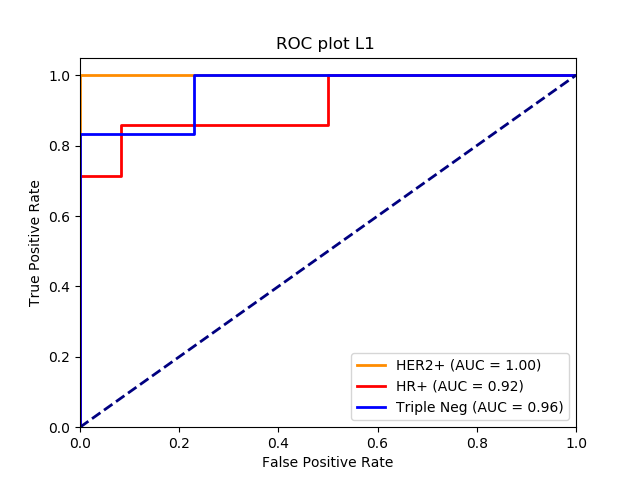
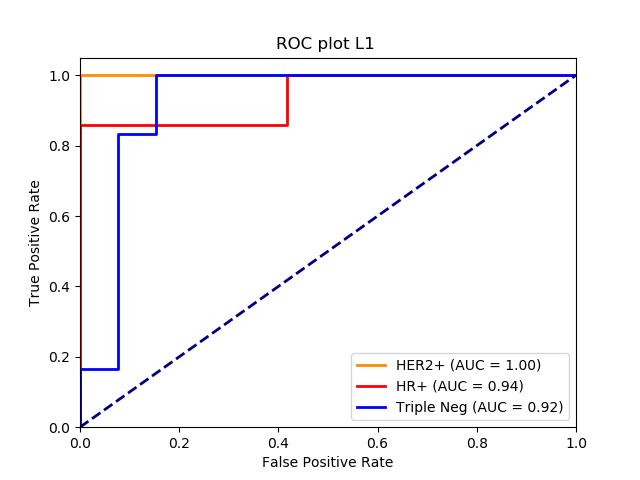
calculate coeff

diff --git a/scripts/Main.py b/scripts/Main.py
@@ -3,6 +3,7 @@
 import argparse
 
 import pandas as pd
+import numpy as np
 from numpy import ravel
 from sklearn.feature_selection import SelectFromModel
 from sklearn.model_selection import GridSearchCV, KFold, StratifiedKFold
@@ -14,7 +15,7 @@ import matplotlib.pyplot as plt
 
 
 class Model:
-    def __init__(self, svm, c_l1, best_features, accuracy_validate, best_params, n_features, iteration):
+    def __init__(self, svm, c_l1, best_features, accuracy_validate, best_params, n_features, iteration, lsvc, index):
         self.svm = svm
         self.c_l1 = c_l1
         self.best_features = best_features
@@ -22,6 +23,25 @@ class Model:
         self.best_params = best_params
         self.n_features = n_features
         self.iteration = iteration
+        self.lsvc = lsvc
+        self.index = index
+
+
+def plot_coefficients(classifier, feature_names, top_features=20):
+    coef = classifier.coef_.ravel()
+    top_positive_coefficients = np.argsort(coef)[-top_features:]
+    top_negative_coefficients = np.argsort(coef)[:top_features]
+    top_coefficients = np.hstack([top_negative_coefficients, top_positive_coefficients])
+    top_coefficients_index = top_coefficients / 3
+    top_coefficients_index = np.int_(np.floor(top_coefficients_index))
+    print(top_coefficients_index[0:5])
+    # create plot
+    plt.figure(figsize=(15, 5))
+    colors = ['red' if c < 0 else 'blue' for c in coef[top_coefficients]]
+    plt.bar(np.arange(2 * top_features), coef[top_coefficients], color=colors)
+    feature_names = np.array(feature_names)
+    plt.xticks(np.arange(1, 1 + 2 * top_features), feature_names[top_coefficients_index], rotation=60, ha='right')
+    plt.show()
 
 
 def l1_selection(x_train, y_train, c_li):
@@ -31,14 +51,14 @@ def l1_selection(x_train, y_train, c_li):
     n_features = x_new.shape[1]
     print("L1: x_train amount of features form " + str(x_train.shape[1]) + " to " + str(x_new.shape[1]))
 
-    return pd.DataFrame(x_new), model, n_features
+    return pd.DataFrame(x_new), model, n_features, lsvc, list(x_train)
 
 
 def inner_cv(x_train, y_train, in_n_splits, state, estimator, param, iteration):
     c_l1_param = [0.01, 0.1, 1, 10]
     models = []
     for c_l1 in c_l1_param:
-        x_train_in, best_features, n_features = l1_selection(x_train, ravel(y_train), c_l1)
+        x_train_in, best_features, n_features, lsvc, index = l1_selection(x_train, ravel(y_train), c_l1)
 
         in_cv = StratifiedKFold(n_splits=in_n_splits, shuffle=False, random_state=state)
         # inner loop for hyperparameters tuning
@@ -49,7 +69,7 @@ def inner_cv(x_train, y_train, in_n_splits, state, estimator, param, iteration):
         best_hyperparameters = gscv.best_params_
         val_score = gscv.best_score_
 
-        model = Model(gscv, c_l1, best_features, val_score, best_hyperparameters, n_features, iteration)
+        model = Model(gscv, c_l1, best_features, val_score, best_hyperparameters, n_features, iteration, lsvc, index)
         models.append(model)
     highest_model = models[0]
     highest_model_score = models[0].accuracy_validate
@@ -67,18 +87,18 @@ def inner_cv(x_train, y_train, in_n_splits, state, estimator, param, iteration):
 
     print(best_parameters, validation_score)
 
-    return best_parameters, c_l1, best_features, validation_score
+    return best_parameters, c_l1, best_features, validation_score, highest_model.lsvc, highest_model.index
 
 
 def outer_cv(x_train, y_train, estimator, param, use_stratified):
-    states = [6,5,4]
+    states = [6, 5, 4]
     out_n_splits = 5
     in_n_splits = 4
     models = []
     plot_number = 1
     iterations = 15
 
-    for iteration in range(3):
+    for iteration in range(int(iterations/out_n_splits)):
         state = states[iteration]
         if use_stratified:
             # StratifiedKFold = Equal amount of each class per fold (uncomment next line to use)
@@ -93,8 +113,9 @@ def outer_cv(x_train, y_train, estimator, param, use_stratified):
             x_train_out, x_test_out = x_train.iloc[index_train_out], x_train.iloc[index_test_out]
             y_train_out, y_test_out = y_train.iloc[index_train_out], y_train.iloc[index_test_out]
 
-            best_parameters, c_l1, best_features, validation_score = inner_cv(x_train_out, y_train_out, in_n_splits, state,
-                                                                              estimator, param, iteration)
+            best_parameters, c_l1, best_features, validation_score, lscv, index = inner_cv(x_train_out, y_train_out,
+                                                                                           in_n_splits, state,
+                                                                                           estimator, param, iteration)
 
             x_train_out_transformed = best_features.transform(x_train_out)
             x_test_out_transformed = best_features.transform(x_test_out)
@@ -107,7 +128,8 @@ def outer_cv(x_train, y_train, estimator, param, use_stratified):
             svc = SVC(C=c, kernel=kernel, degree=degree, gamma=gamma)
             svc.fit(x_train_out_transformed, y_train_out)
             val_score = svc.score(x_test_out_transformed, ravel(y_test_out))
-            model = Model(svc, c_l1, best_features, val_score, best_parameters, x_test_out_transformed.shape[1], iteration)
+            model = Model(svc, c_l1, best_features, val_score, best_parameters, x_test_out_transformed.shape[1],
+                          iteration, lscv, index)
             models.append(model)
 
             classes = ["HER2+", "HR+", "Triple Neg"]
@@ -117,14 +139,14 @@ def outer_cv(x_train, y_train, estimator, param, use_stratified):
             classifier = OneVsRestClassifier(SVC(kernel=model.best_params["kernel"], degree=model.best_params["degree"],
                                                  C=model.best_params["C"], gamma=model.best_params["gamma"],
                                                  probability=True, random_state=6))
-            y_score = classifier.fit(x_train_out_transformed,y_train_out).decision_function(x_test_out_transformed)
+            y_score = classifier.fit(x_train_out_transformed, y_train_out).decision_function(x_test_out_transformed)
 
             fpr = dict()
             tpr = dict()
             roc_auc = dict()
-            for i in range(n_classes):
-                fpr[i], tpr[i], _ = roc_curve(y_test_out[:, i], y_score[:, i])
-                roc_auc[i] = auc(fpr[i], tpr[i])
+            for n_class in range(n_classes):
+                fpr[n_class], tpr[n_class], _ = roc_curve(y_test_out[:, n_class], y_score[:, n_class])
+                roc_auc[n_class] = auc(fpr[n_class], tpr[n_class])
 
             # Compute micro-average ROC curve and ROC area
             fpr["micro"], tpr["micro"], _ = roc_curve(y_test_out.ravel(), y_score.ravel())
@@ -135,9 +157,9 @@ def outer_cv(x_train, y_train, estimator, param, use_stratified):
             plt.plot(fpr[0], tpr[0], color='darkorange',
                      lw=lw, label='%s (AUC = %0.2f)' % (classes[0], roc_auc[0]))
             plt.plot(fpr[1], tpr[1], color='red',
-                     lw=lw, label='%s (AUC = %0.2f)' % (classes[1],roc_auc[1]))
+                     lw=lw, label='%s (AUC = %0.2f)' % (classes[1], roc_auc[1]))
             plt.plot(fpr[2], tpr[2], color='blue',
-                     lw=lw, label='%s (AUC = %0.2f)' % (classes[2],roc_auc[2]))
+                     lw=lw, label='%s (AUC = %0.2f)' % (classes[2], roc_auc[2]))
 
             plt.plot([0, 1], [0, 1], color='navy', lw=lw, linestyle='--')
             plt.xlim([0.0, 1.0])
@@ -147,6 +169,7 @@ def outer_cv(x_train, y_train, estimator, param, use_stratified):
             plt.title('ROC plot L1 ')
             plt.legend(loc="lower right")
             plt.savefig("../images/L1_feature_selection/ROC_plot%s.png" % plot_number)
+            plt.close()
             plot_number += 1
 
     return models
@@ -175,7 +198,9 @@ def nested_svm(data, labels, hyperparameters, use_stratified):
     best_features = highest_model.best_features
     validation_score = highest_model_score
 
-    print(best_features.get_support(), validation_score)
+    plot_coefficients(highest_model.lsvc, highest_model.index)
+
+    print(best_features, validation_score)
 
 
 def load_data(input_file, label_file):
